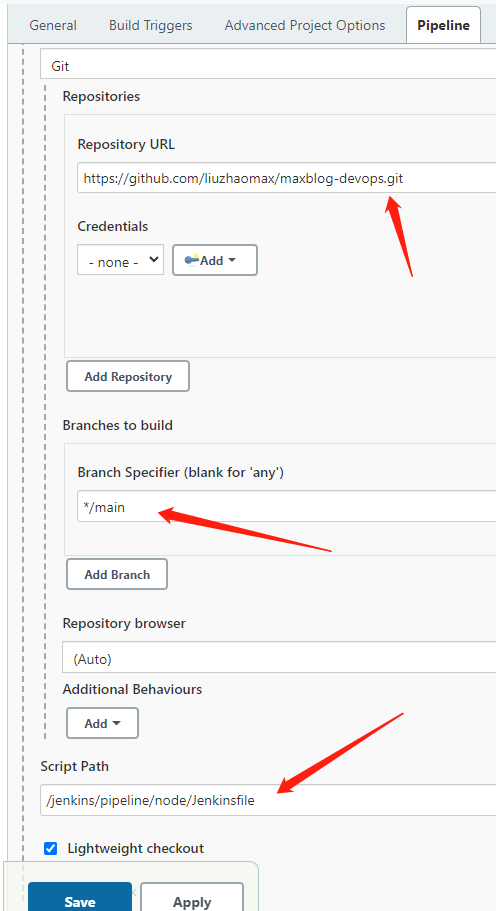
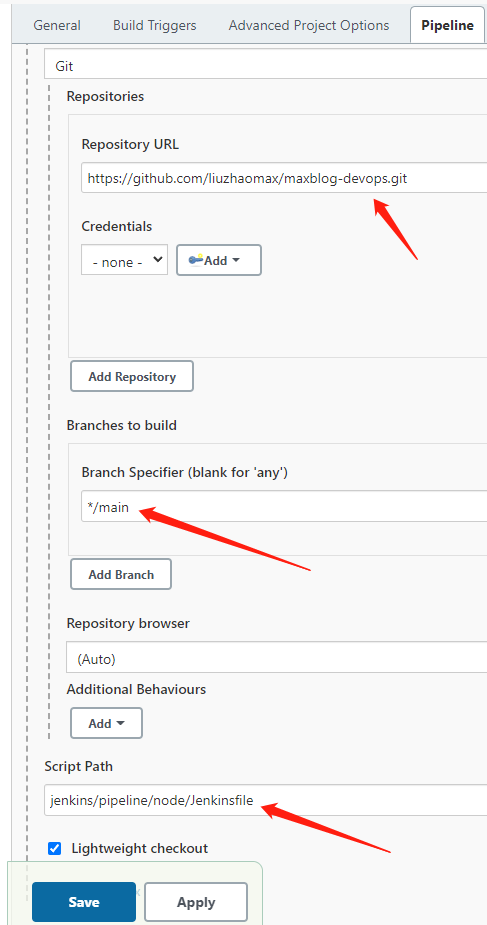
修改流水线checkout

diff --git a/plan/cicd.md b/plan/cicd.md
@@ -130,6 +130,16 @@ sudo docker logs -f jenkins
 
 ![配置流水线脚本地址.png](cicd/配置流水线脚本地址.png)
 
+> 注意：Script Path第一个字符不要"/"
+
+### 3.2 拉取代码
+来到项目的Configure，按图中点击
+
+![参数化构建.png](cicd/参数化构建.png)
+![配置代码仓库信息.png](cicd/配置代码仓库信息.png)
+
+转到`Pipeline Syntax`生成语法
+
 
 
 
